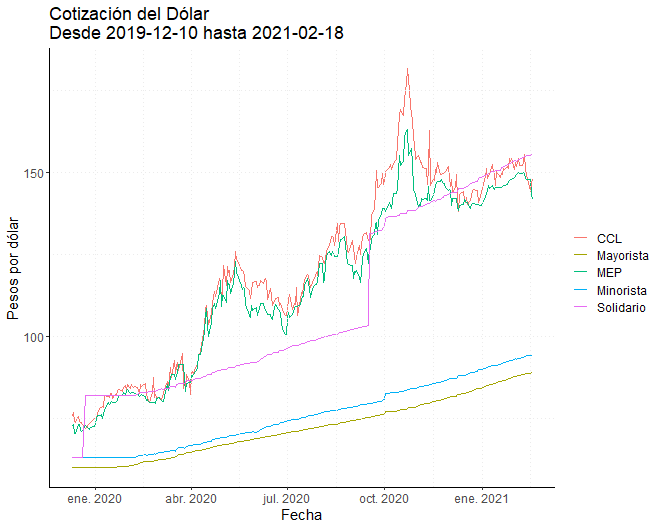
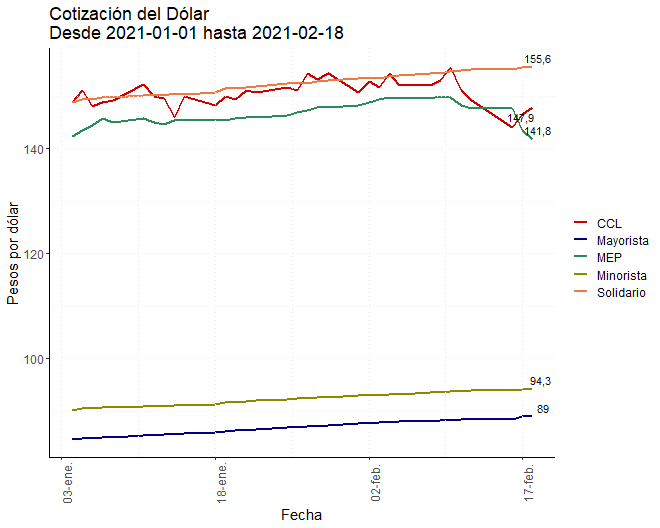
20210219 1236

diff --git a/Dolar.html b/Dolar.html
@@ -324,13 +324,26 @@ $(document).ready(function () {
 
 
 <p><br><br></p>
+<div id="cotizaciones-de-mayorista-minorista-y-paralelos" class="section level2">
+<h2>Cotizaciones de Mayorista, Minorista y Paralelos</h2>
 <p><br><br></p>
+<p><a id="dol0"></a></p>
+<p><br><br><br><br></p>
+<div id="section" class="section level3">
+<h3>127</h3>
+<p><img src="Graficos/dol0.png" /> <a href="https://github.com/esterodr/Monitor_v2/blob/main/CSV/Grafico127.csv" target="_blank">Descargar Datos</a></p>
 <p><a id="dol1"></a></p>
 <p><br><br><br><br></p>
-<p><img src="Graficos/dol1.png" /></p>
+</div>
+<div id="section-1" class="section level3">
+<h3>128</h3>
+<p><img src="Graficos/dol1.png" /> <a href="https://github.com/esterodr/Monitor_v2/blob/main/CSV/Grafico128.csv" target="_blank">Descargar Datos</a></p>
 <p><a id="dol2"></a></p>
 <p><br><br><br><br></p>
-<p><img src="Graficos/dol2.png" /></p>
+</div>
+<div id="section-2" class="section level3">
+<h3>129</h3>
+<p><img src="Graficos/dol2.png" /> <a href="https://github.com/esterodr/Monitor_v2/blob/main/CSV/Grafico129.csv" target="_blank">Descargar Datos</a></p>
 <p><a id="dol1b"></a></p>
 <p><br><br><br><br></p>
 <p><img src="Graficos/dol1b.png" /></p>
@@ -352,6 +365,8 @@ $(document).ready(function () {
 <p><a id="dol_tasa"></a></p>
 <p><br><br><br><br></p>
 <p><img src="Graficos/dol_tasa.png" /></p>
+</div>
+</div>
 
 
 

diff --git a/index.html b/index.html
@@ -776,12 +776,16 @@ Reservas
 <h3>
 Dólar
 </h3>
-<ol type="1">
+<ol type="1" start="127">
+<u>Cotizaciones de Mayorista, Minorista y Paralelos</u>
 <li>
-<a href="./Dolar.html#dol1">Cotización desde Enero de 2019 (Mayorista, Minorista, Solidario, MEP/CCL)</a>
+<a href="./Dolar.html#dol0">Desde Enero de 2019</a>
 </li>
 <li>
-<a href="./Dolar.html#dol2">Cotización desde el 10/12/2019 (Mayorista, Minorista, Solidario, MEP/CCL)</a>
+<a href="./Dolar.html#dol1">Desde Enero de 2020</a>
+</li>
+<li>
+<a href="./Dolar.html#dol2">Desde Enero de 2021</a>
 </li>
 <li>
 <a href="./Dolar.html#dol1b">Brecha del Dólar Mayorista con CCL (GGAL) y MEP (AY24), desde Enero de 2019</a>
